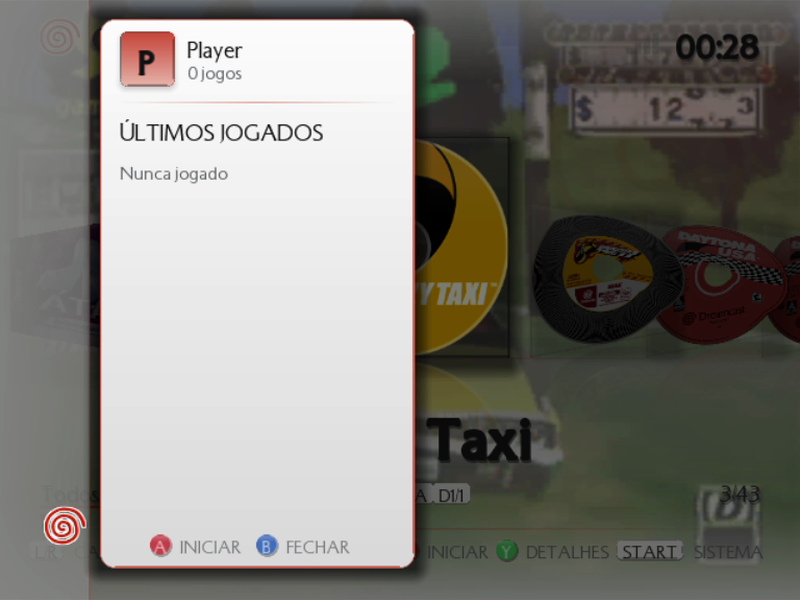
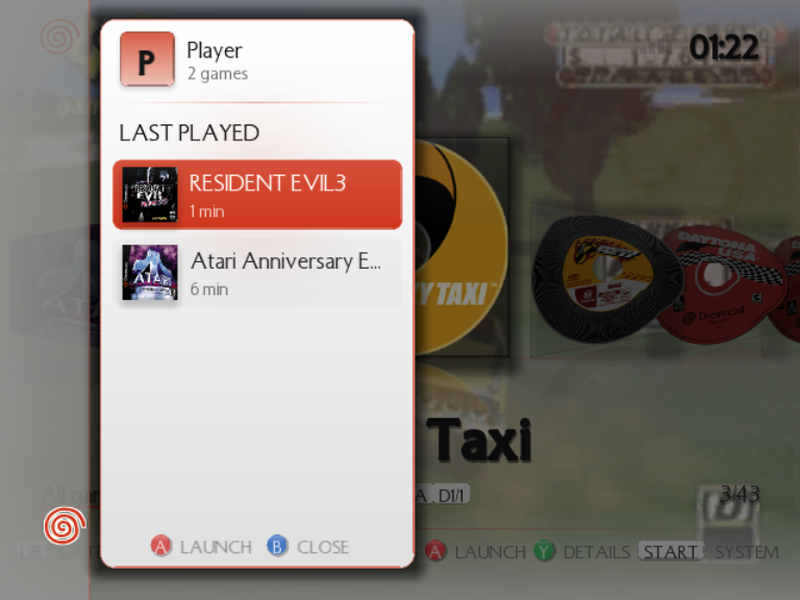
Settings now load on boot (VMU package CRC is left at 0; find the block by its magic). English screenshots and demo video with sound; System stats line clipped.

diff --git a/src/settings.c b/src/settings.c
@@ -31,17 +31,24 @@ static int vmu_path(char *out, int cap) {
 void settings_init(void) {
     defaults();
 #ifdef _arch_dreamcast
-    char path[48]; if (vmu_path(path, sizeof path)) return;
-    file_t f = fs_open(path, O_RDONLY); if (f < 0) return;
+    char path[48]; if (vmu_path(path, sizeof path)) { dbglog(DBG_INFO, "settings: no VMU\n"); return; }
+    file_t f = fs_open(path, O_RDONLY); if (f < 0) { dbglog(DBG_INFO, "settings: cannot open %s\n", path); return; }
     size_t len = fs_total(f);
     uint8_t *buf = malloc(len);
     if (buf && fs_read(f, buf, len) == (ssize_t)len) {
-        vmu_pkg_t pkg;
-        if (vmu_pkg_parse(buf, len, &pkg) == 0 && pkg.data_len >= 8) {
-            uint32_t magic, version; memcpy(&magic, pkg.data, 4); memcpy(&version, pkg.data + 4, 4);
-            size_t need = version == SETTINGS_VERSION ? sizeof S : version == 2 ? SETTINGS_V2_SIZE : 0;   /* v2 -> v3: new fields keep their defaults */
-            if (magic == SETTINGS_MAGIC && need && pkg.data_len >= (int)need) { memcpy(&S, pkg.data, need); S.version = SETTINGS_VERSION; }
+        /* The settings block follows the VMU package header + icon. vmu_pkg_parse also checks the CRC,
+         * which the file system leaves at 0 on some writes, so locate the block by its magic instead. */
+        const uint8_t *data = NULL; size_t avail = 0;
+        for (size_t off = 0; off + 8 <= len; off += 4) {
+            uint32_t m; memcpy(&m, buf + off, 4);
+            if (m == SETTINGS_MAGIC) { data = buf + off; avail = len - off; break; }
         }
+        if (data) {
+            uint32_t version; memcpy(&version, data + 4, 4);
+            size_t need = version == SETTINGS_VERSION ? sizeof S : version == 2 ? SETTINGS_V2_SIZE : 0;   /* v2 -> v3: new fields keep their defaults */
+            if (need && avail >= need) { memcpy(&S, data, need); S.version = SETTINGS_VERSION; }
+            dbglog(DBG_INFO, "settings: loaded %s (v%lu)\n", path, (unsigned long)version);
+        } else dbglog(DBG_INFO, "settings: no Cast Menu block in %s\n", path);
     }
     free(buf); fs_close(f);
 #endif

diff --git a/src/ui/ui.c b/src/ui/ui.c
@@ -525,7 +525,7 @@ static void sysinfo_draw(void) {
     draw_text(&g_font_small, lx + text_width(&g_font_big, "Cast Menu") + 12, ay + 20, t->accent, "v" CAST_VERSION);
     char stats[96]; snprintf(stats, sizeof stats, "%s %s  \xb7  %s %s  \xb7  %s %s", cnt, tr(S_GAMES_LOWER), favs, tr(S_FAVORITES), n, tr(S_LAUNCHES));
     for (char *c = stats; *c; c++) if (*c >= 'A' && *c <= 'Z' && c > stats && c[-1] != ' ' && c[-1] != '\xb7') *c += 32;
-    draw_text_clipped(&g_font_small, lx, ay + 40, SCREEN_W - 2 * SAFE_X - 80, t->text, stats);
+    draw_text_clipped(&g_font_small, lx, ay + 40, SCREEN_W / 2 - lx - 10, t->text, stats);   /* left half: most-played list sits on the right */
     draw_text_clipped(&g_font_small, lx, ay + 58, 300, t->text_dim, "MIT \xb7 github.com/hudsonbrendon/castmenu");
     /* statistics: total play time + the three most played games */
     { settings_t *st = settings_get(); uint32_t total = 0; int top[3] = { -1, -1, -1 };

diff --git a/README.md b/README.md
@@ -1,5 +1,7 @@
 <p align="center"><img src="assets/brand/logo_sticker.png" width="320" alt="Cast Menu"></p>
 
+<p align="center"><img src="docs/screenshots/demo.gif" width="560" alt="Cast Menu: coverflow with gameplay clips and the launch animation"></p>
+
 <p align="center"><b>An open, good-looking game menu for GDEMU on the Sega Dreamcast.</b></p>
 
 <p align="center">
@@ -28,9 +30,10 @@ Full feature list and details: [docs/MENU.md](docs/MENU.md).
 
 ## Screenshots
 
-<p align="center"><img src="docs/screenshots/demo.gif" width="480" alt="Cast Menu demo: Crazy Taxi and Resident Evil 3 with clips, then the launch animation"></p>
+https://github.com/user-attachments/assets/ceb6fc5b-3d35-4e5d-874f-5cb9dde383df
 
-<p align="center"><a href="https://github.com/hudsonbrendon/castmenu/releases/download/v0.5.0/castmenu-demo.mp4">▶ Full demo video with the game music (2 min)</a></p>
+<p align="center">Demo with sound: Crazy Taxi and Resident Evil 3 with their clips and themes, then the launch animation.
+<a href="https://github.com/hudsonbrendon/castmenu/releases/download/v0.5.0/castmenu-demo.mp4">Download the full-quality video</a>.</p>
 
 | | |
 |---|---|
